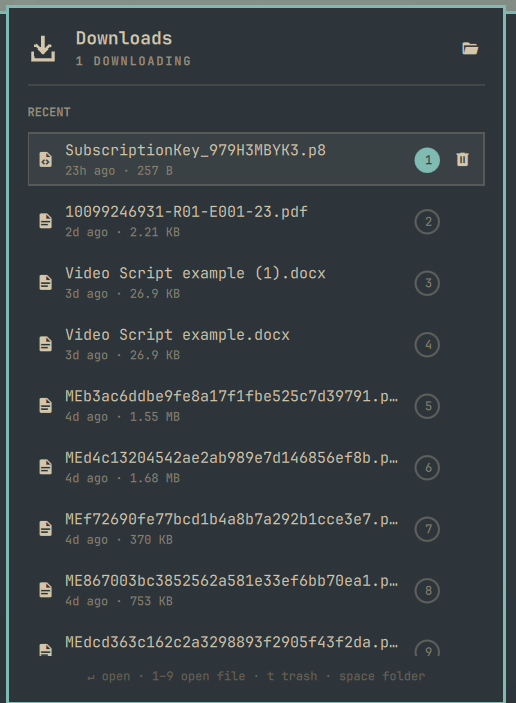
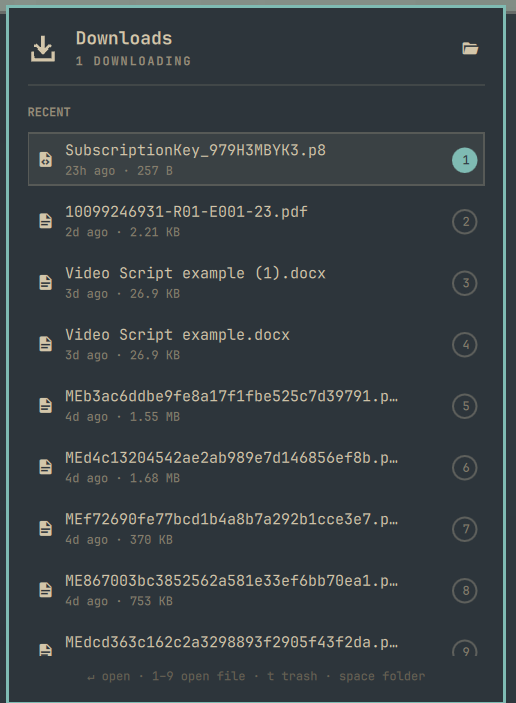
Numbered rows, space for the folder, t for trash
Rows 1-9 wear a ring badge on the trailing edge and open on that key alone.
Space opens the downloads folder — and folder-opening now closes the panel
from every entry point, matching what opening a file already did. Trash moves
to `t` and is revealed by the pointer only, never by the keyboard cursor.

diff --git a/Panel.qml b/Panel.qml
@@ -444,7 +444,15 @@ Panel {
       }
     }
 
+    // The trash button is a mouse affordance only, so it tracks the pointer
+    // rather than the panel cursor. `trashHovered` is what keeps it from
+    // blinking out from under the pointer: once the button's own MouseArea
+    // takes the hover, the row's no longer has it.
+    property bool trashHovered: false
+    readonly property bool mouseOver: rowMouse.containsMouse || trashHovered
+
     MouseArea {
+      id: rowMouse
       anchors.fill: parent
       hoverEnabled: true
       cursorShape: Qt.PointingHandCursor
@@ -492,6 +500,26 @@ Panel {
         }
       }
 
+      // Always in the layout so the row never reflows. Revealed by the pointer
+      // alone, not by the keyboard cursor: on the keyboard the trash is `t`,
+      // and a delete button that lights up as you arrow past a row is an
+      // invitation nobody asked for.
+      PanelActionButton {
+        iconText: ""
+        tooltipText: "Move to trash"
+        foreground: downloadsPanel.foreground
+        hoverColor: downloadsPanel.urgent
+        fontFamily: downloadsPanel.fontFamily
+        opacity: fileRow.mouseOver ? 1.0 : 0.0
+        Layout.alignment: Qt.AlignVCenter
+        onClicked: downloads.trashFile(fileRow.file)
+        onHovered: function(on) { fileRow.trashHovered = on }
+
+        Behavior on opacity {
+          NumberAnimation { duration: 90 }
+        }
+      }
+
       // Row number, on the trailing edge, in a ring that fills solid when the
       // cursor lands on the row — so the key you would press and the row Enter
       // would open read as the same thing. The slot keeps its width past row 9
@@ -531,23 +559,6 @@ Panel {
         }
       }
 
-      // Always in the layout so the row never reflows; revealed on hover and on
-      // the keyboard cursor, which are the same state by CursorSurface contract.
-      PanelActionButton {
-        iconText: ""
-        tooltipText: "Move to trash"
-        foreground: downloadsPanel.foreground
-        hoverColor: downloadsPanel.urgent
-        fontFamily: downloadsPanel.fontFamily
-        opacity: fileRow.hasCursor ? 1.0 : 0.0
-        enabled: fileRow.hasCursor
-        Layout.alignment: Qt.AlignVCenter
-        onClicked: downloads.trashFile(fileRow.file)
-
-        Behavior on opacity {
-          NumberAnimation { duration: 90 }
-        }
-      }
     }
   }
 
